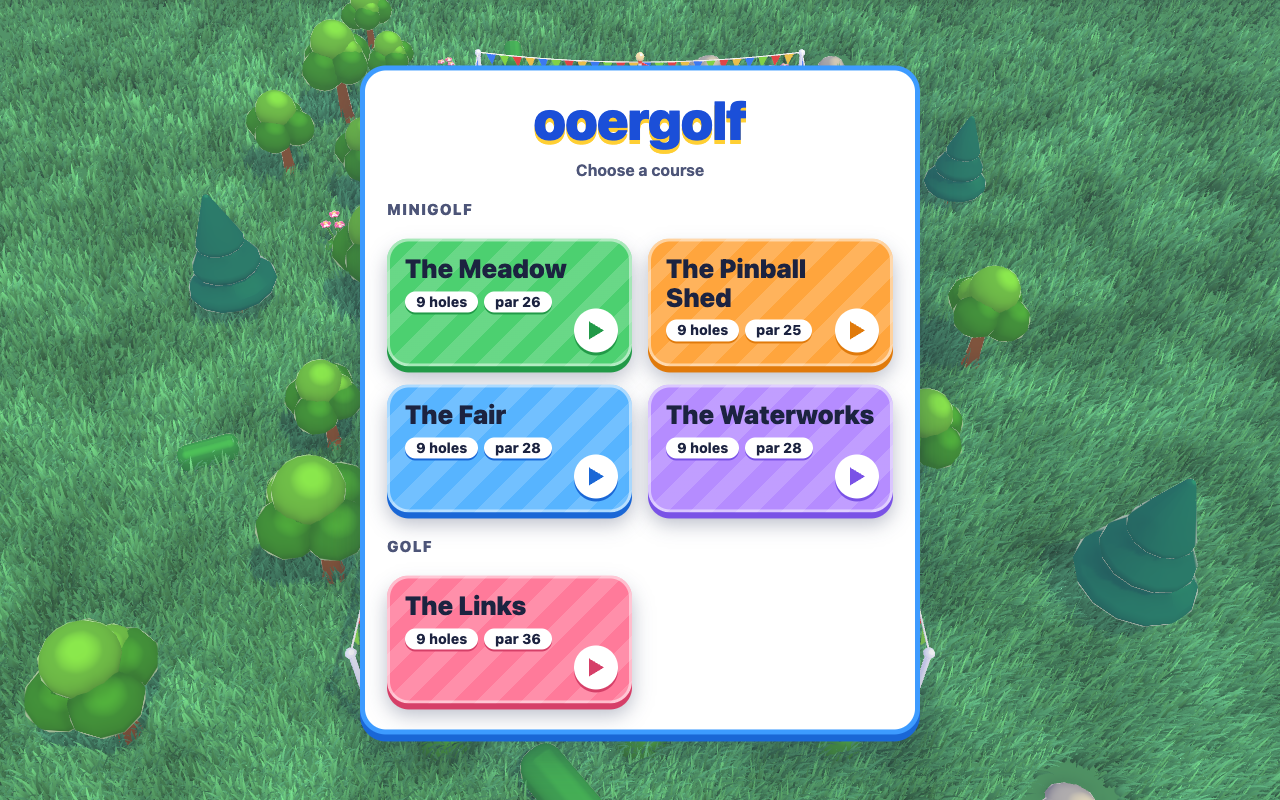
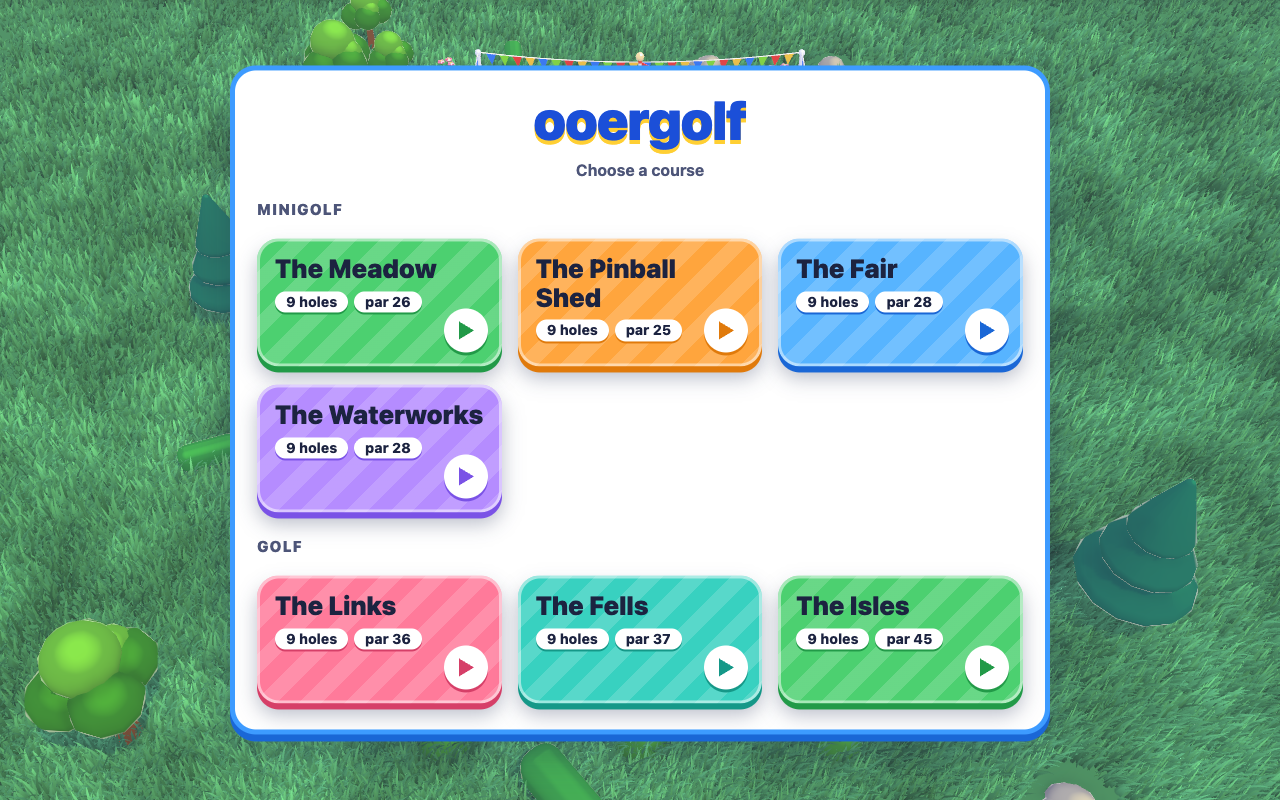
The Fells and The Isles are on the start screen, made when first chosen, after The Links
Both are registered in COURSES as golf, lazy as The Links is, with their summaries read without making them. Seven cards
no longer fit the start screen, so it is three cards wide on a desk and its phone cards are shorter; the three start
pictures are written again for that and have been looked at. The Fells' fifth hole is renamed The Plunge, since its
old name's wind bent the grass less than the turf test asks. The course test floods across water on golf, since an
island green is reached by air, and allows a par of six. Tests: both courses lazy, saved best scores by hole name,
names unique, a hole of each in SAMPLE_HOLES (The Plunge, The Green Isle), and smoke that chooses each from its card
and strikes a stroke. The checks beyond the quick one follow with the rest of the work.

diff --git a/test/courses.test.ts b/test/courses.test.ts
@@ -5,21 +5,26 @@ import { Autopilot } from '../src/autopilot';
 import { COURSE, COURSES, CUP } from '../src/course';
 import { checkInvariants } from '../src/invariants';
 import { PHYSICS, terrainRefusal } from '../src/physics';
+import { Progress, memoryStore } from '../src/progress';
 import { DT, newGame } from './helpers';
 import { HILLS } from './hills';
 
+const holeNames = (course: string) => COURSES.find((c) => c.name === course)!.holes.map((h) => h.name);
+
 describe('the courses', () => {
-  it('are The Meadow, the first nine as they were, the three newer courses and The Links, the one course of golf', () => {
+  it('are The Meadow, the first nine as they were, the three newer courses and The Links, The Fells and The Isles, the courses of golf, in order of difficulty', () => {
     expect(COURSES.map((c) => c.name)).toEqual([
       'The Meadow',
       'The Pinball Shed',
       'The Fair',
       'The Waterworks',
       'The Links',
+      'The Fells',
+      'The Isles',
     ]);
     expect(COURSES[0].holes).toBe(COURSE);
     expect(COURSE.length).toBe(9);
-    expect(COURSES.filter((c) => c.golf).map((c) => c.name)).toEqual(['The Links']);
+    expect(COURSES.filter((c) => c.golf).map((c) => c.name)).toEqual(['The Links', 'The Fells', 'The Isles']);
   });
 
   it('draw The Meadow’s windmill and mill race so that the cup shows from the tee, and open the race’s barrier wider', () => {
@@ -47,6 +52,20 @@ describe('the courses', () => {
   it('name every hole once across them all, since a best score is kept by the hole’s name', () => {
     const names = [...COURSES.flatMap((c) => c.holes.map((h) => h.name)), ...HILLS.map((h) => h.name)];
     expect(new Set(names).size).toBe(names.length);
+  });
+
+  it('keep a best score by the name of each hole of The Fells and The Isles, saved and read back', () => {
+    const names = ['The Fells', 'The Isles'].flatMap((n) =>
+      COURSES.find((c) => c.name === n)!.summary.holes ? holeNames(n) : [],
+    );
+    expect(names.length).toBe(18);
+    const best: Record<string, { strokes: number; club: string }> = {};
+    names.forEach((n, i) => (best[n] = { strokes: 2 + (i % 5), club: 'putter' }));
+    const store = memoryStore(JSON.stringify({ coins: 0, gems: 0, owned: ['putter'], club: 'putter', best }));
+    const progress = new Progress(store);
+    progress.persist();
+    const again = new Progress(store);
+    expect(again.save.best).toEqual(best);
   });
 
   it('slope only as the physics allows, and round each cup no steeper than the green holds a ball', () => {

diff --git a/smoke/progress.spec.ts b/smoke/progress.spec.ts
@@ -556,6 +556,40 @@ test('a hole of golf played with the bag: a club chosen by its button, struck in
   expect(problems).toEqual([]);
 });
 
+for (const [course, first] of [
+  ['The Fells', 'Fell Foot'],
+  ['The Isles', 'Landfall'],
+] as const) {
+  test(`${course} is chosen by its card on the start screen, begun on its first hole with the driver in hand, and a stroke is struck by a drag`, async ({
+    page,
+  }) => {
+    const problems = watch(page);
+    await start(page, { seed: 1, paused: true, screen: true });
+    await expect(page.locator('#start .course')).toHaveCount(7);
+    await page.locator('#start .course', { hasText: course }).click();
+    await expect(page.locator('#start')).toBeHidden();
+    await page.evaluate(() => window.game!.step(75));
+    await expect(page.locator('#bag')).toBeVisible();
+    await expect(page.locator('#bagClubs button')).toHaveCount(8);
+    expect(await page.evaluate(() => window.game!.state())).toMatchObject({
+      course,
+      golf: true,
+      inHand: 'driver',
+      strokes: 0,
+      ready: true,
+    });
+    expect(await page.evaluate(() => window.game!.content().holes[0].name)).toBe(first);
+    const at = await page.evaluate(() => {
+      const b = window.game!.ball();
+      return window.game!.project(b.x, b.y, b.z);
+    });
+    const short = await page.evaluate(() => Math.min(innerWidth, innerHeight));
+    await drag(page, at, { x: at.x, y: at.y + 0.35 * short });
+    expect((await page.evaluate(() => window.game!.state())).strokes, 'let go, the stroke is taken').toBe(1);
+    expect(problems).toEqual([]);
+  });
+}
+
 test('a full drive is followed the whole way: the ball is in the middle of the screen at every frame from the tee to rest', async ({
   page,
 }) => {
@@ -1853,7 +1887,7 @@ test.describe('the flag button', () => {
     await expect(page.locator('#viewFlag')).toBeHidden();
     expect(await page.evaluate(() => window.game!.faceFlag()), 'nothing under the screen').toBe(false);
     expect((await view(page)).turning).toBe(false);
-    for (const course of ['The Meadow', 'The Links']) {
+    for (const course of ['The Meadow', 'The Links', 'The Fells', 'The Isles']) {
       await page.evaluate((name) => {
         window.game!.chooseCourse(name);
         window.game!.step(60);

diff --git a/test/course.test.ts b/test/course.test.ts
@@ -103,11 +103,11 @@ describe('the course', () => {
   it('has holes, each with a par, a cup the ball fits, and grass the whole way from the tee to the cup, on every course', () => {
     expect(COURSE.length).toBeGreaterThanOrEqual(2);
     expect(CUP.radius).toBeGreaterThan(1);
-    for (const hole of COURSES.flatMap((c) => c.holes)) {
+    for (const { hole, golf } of COURSES.flatMap((c) => c.holes.map((h) => ({ hole: h, golf: !!c.golf })))) {
       const l = layoutOf(hole.map, hole.terrain);
       expect(hole.par, hole.name).toBeGreaterThanOrEqual(2);
-      // the longest holes of The Links are par five; no hole is more
-      expect(hole.par, hole.name).toBeLessThanOrEqual(5);
+      // the longest holes of The Isles are par six; no hole is more
+      expect(hole.par, hole.name).toBeLessThanOrEqual(6);
       // the cup sits on level grass, where its lining, collar and flag are drawn; the physics could cut it higher
       const cupTile = Math.floor((l.cup.y - l.originY) / TILE) * l.cols + Math.floor((l.cup.x - l.originX) / TILE);
       expect(l.floor[cupTile], `${hole.name}: the cup on level grass`).toBe(0);
@@ -118,7 +118,8 @@ describe('the course', () => {
       const queue = [tile(l.tee.x, l.tee.y)];
       while (queue.length) {
         const t = queue.pop()!;
-        if (seen.has(t) || l.solid[t] || l.water[t]) continue;
+        // a ball on a golf hole flies over water, so an island green is reached from the tee across it
+        if (seen.has(t) || l.solid[t] || (l.water[t] && !golf)) continue;
         seen.add(t);
         queue.push(t + 1, t - 1, t + l.cols, t - l.cols);
       }

diff --git a/test/fells-ground.test.ts b/test/fells-ground.test.ts
@@ -24,7 +24,7 @@ const RELIEF = { least: 15, most: 40 };
 const CLEARLY = 1.3;
 
 /**
- * Three holes of the table: Fell Foot, The Drop and The Fell Race, with their lengths, widths, feels, contours, greens,
+ * Three holes of the table: Fell Foot, The Plunge and The Fell Race, with their lengths, widths, feels, contours, greens,
  * bunkers and trees (no lakes: those are a later part's). Each is at `heighten` 2.5 and steepness 0.9, which the table's
  * 1.4 to 1.8 do not reach (0 to 15 per cent of the fairway runs at 1.4 and 1.8, and 6 to 29 at 2.5); the seeds are the ones
  * of eight whose share and relief are both inside the targets, 7, 6 and 4.
@@ -49,7 +49,7 @@ const SPECS: GolfSpec[] = [
     greens: 13.5,
   },
   {
-    name: 'The Drop',
+    name: 'The Plunge',
     par: 3,
     length: 210,
     bend: 0,
@@ -250,7 +250,7 @@ describe('a hole of steep ground, as The Fells have it', () => {
 
 describe('the steepest ground the physics takes', () => {
   it('is never handed back past it: a plate blended into tall hills is gentled until the physics takes it', () => {
-    // these seeds of The Fell Race and The Drop (on long hills) made a step of 1.50 to 1.65 where the green's plate meets the
+    // these seeds of The Fell Race and The Plunge (on long hills) made a step of 1.50 to 1.65 where the green's plate meets the
     // hills, past the half a tile the physics allows, before the generator held the finished ground to it
     const cases: GolfSpec[] = [
       { ...SPECS[2], seed: 2 },

diff --git a/test/lazy-course.test.ts b/test/lazy-course.test.ts
@@ -33,6 +33,36 @@ describe('a course made by a generator', () => {
     vi.resetModules();
   });
 
+  it('is made only when chosen for The Fells and The Isles too: summaries read, nothing made, until their holes are asked for', async () => {
+    vi.resetModules();
+    const made: string[] = [];
+    vi.doMock('../src/golf', async () => {
+      const real = await vi.importActual<typeof import('../src/golf')>('../src/golf');
+      return {
+        ...real,
+        golfHole: (spec: Parameters<typeof real.golfHole>[0]) => {
+          made.push(spec.name);
+          return real.golfHole(spec);
+        },
+      };
+    });
+    const course = await import('../src/course');
+    expect(made).toEqual([]);
+    for (const name of ['The Fells', 'The Isles']) {
+      const c = course.COURSES.find((x) => x.name === name)!;
+      expect(c.golf, `${name} is golf`).toBe(true);
+      expect(c.summary.holes).toBe(9);
+      expect(made, `${name}: its summary was read, nothing made`).toEqual([]);
+      const holes = c.holes;
+      expect(made.length).toBe(9);
+      expect(c.holes).toBe(holes);
+      expect(made.length, 'once').toBe(9);
+      made.length = 0;
+    }
+    vi.doUnmock('../src/golf');
+    vi.resetModules();
+  });
+
   it('says in its summary what its holes say, for every course there is', () => {
     for (const c of COURSES) {
       expect(c.summary.holes, `${c.name}: how many holes`).toBe(c.holes.length);

diff --git a/test/helpers.ts b/test/helpers.ts
@@ -3,6 +3,8 @@ import { COURSES, type HoleDef } from '../src/course';
 export { FLAT, FLAT_HOLES, levelHole, type LevelSpec } from './level';
 import { golfHole } from '../src/golf';
 import { LINKS_SPECS } from '../src/links';
+import { FELLS_SPECS } from '../src/fells';
+import { ISLES_SPECS } from '../src/isles';
 import { Game, type GameEvents } from '../src/game';
 import { Progress, memoryStore } from '../src/progress';
 import { seeded } from '../src/random';
@@ -11,11 +13,17 @@ export const DT = 1 / 60;
 
 /**
  * The holes the slow tests that try every tile of every hole are run on: every hole of the minigolf courses. Of The Links, whose holes are
- * twenty thousand tiles of map and eight thousand of ground each: three, the shortest, a par four and the longest, made
+ * twenty thousand tiles of map and eight thousand of ground each: three, the shortest, a par four and the longest, and one of each of the others (The Plunge, The Green Isle), made
  * singly so that importing this does not make all nine.
  */
 export const SAMPLE_HOLES: HoleDef[] = COURSES.flatMap((c) =>
-  c.name === 'The Links' ? [1, 3, 6].map((i) => golfHole(LINKS_SPECS[i])) : c.holes,
+  c.name === 'The Links'
+    ? [1, 3, 6].map((i) => golfHole(LINKS_SPECS[i]))
+    : c.name === 'The Fells'
+      ? [golfHole(FELLS_SPECS[4])]
+      : c.name === 'The Isles'
+        ? [golfHole(ISLES_SPECS[1])]
+        : c.holes,
 );
 
 /**

diff --git a/index.html b/index.html
@@ -735,7 +735,8 @@
   #start {
     --edge: var(--sky);
     --lip: var(--sky-deep);
-    width: min(560px, calc(100vw / var(--ui, 1) - 32px));
+    /* wide enough for three cards across, so The Links, The Fells and The Isles stand in one row and the screen holds seven cards without scrolling */
+    width: min(820px, calc(100vw / var(--ui, 1) - 32px));
     padding: 22px 22px 26px;
     text-align: center;
   }
@@ -873,9 +874,9 @@
   }
 
   @media (max-width: 600px) {
-    /* six cards fit a tall phone's screen at this height, and a short one scrolls */
+    /* seven cards fit a tall phone's screen at this height, and a short one scrolls */
     #courses {
-      gap: 12px 16px;
+      gap: 8px 16px;
     }
     #courses h2 {
       font-size: 13px;
@@ -885,8 +886,8 @@
       margin-top: 0;
     }
     #courses .course {
-      min-height: 88px;
-      padding: 10px 16px 12px;
+      min-height: 76px;
+      padding: 8px 16px 10px;
     }
     .course b {
       font-size: 23px;
@@ -1254,8 +1255,8 @@
       gap: 8px 12px;
     }
     #courses .course {
-      min-height: 68px;
-      padding: 8px 14px 10px;
+      min-height: 56px;
+      padding: 6px 14px 8px;
     }
     .course b {
       font-size: 20px;

diff --git a/smoke/hud.spec.ts b/smoke/hud.spec.ts
@@ -36,7 +36,7 @@ for (const [where, device] of [
   test.describe(where, () => {
     test.use(device);
 
-    test('the start screen holds its four minigolf and one golf course without scrolling, the colours going round the cards', async ({
+    test('the start screen holds its four minigolf and three golf courses without scrolling, the colours going round the cards', async ({
       page,
     }) => {
       const problems = watch(page);
@@ -49,8 +49,10 @@ for (const [where, device] of [
         return { fits: panel.scrollHeight <= panel.clientHeight, faces };
       });
       expect(r.fits, 'no scrolling in the start screen').toBe(true);
-      // five cards, five colours: a heading among them must not shift the cycle
-      expect(new Set(r.faces).size, 'each card its own colour').toBe(5);
+      // seven cards go round six colours, so the seventh wears the first's, which is a heading away; a heading must not shift the cycle
+      expect(r.faces.length, 'a card for each course').toBe(7);
+      expect(new Set(r.faces).size, 'six colours, each used').toBe(6);
+      expect(r.faces[6], 'the seventh card goes round to the first colour').toBe(r.faces[0]);
       expect(problems).toEqual([]);
     });
 

diff --git a/src/course.ts b/src/course.ts
@@ -32,6 +32,8 @@
 
 import type { ObstacleDef } from './obstacles';
 import { FAIR } from './fair';
+import { FELLS_SUMMARY, fells } from './fells';
+import { ISLES_SUMMARY, isles } from './isles';
 import { LINKS_SUMMARY, links } from './links';
 import { SHED } from './shed';
 import { WATERWORKS } from './waterworks';
@@ -291,6 +293,22 @@ export const COURSES: readonly Course[] = [
       return links();
     },
     summary: LINKS_SUMMARY,
+    golf: true,
+  },
+  {
+    name: 'The Fells',
+    get holes() {
+      return fells();
+    },
+    summary: FELLS_SUMMARY,
+    golf: true,
+  },
+  {
+    name: 'The Isles',
+    get holes() {
+      return isles();
+    },
+    summary: ISLES_SUMMARY,
     golf: true,
   },
 ];

diff --git a/test/fells.test.ts b/test/fells.test.ts
@@ -223,7 +223,7 @@ describe('The Fells', () => {
     }
     const mine = FELLS_SPECS.map((s) => s.name);
     expect(new Set(mine).size).toBe(9);
-    const others = COURSES.flatMap((c) => c.holes.map((h) => h.name));
+    const others = COURSES.filter((c) => c.name !== 'The Fells').flatMap((c) => c.holes.map((h) => h.name));
     for (const name of mine) expect(others, name).not.toContain(name);
     for (const name of ISLES) expect(mine, name).not.toContain(name);
     for (const s of LINKS_SPECS) expect(mine, s.name).not.toContain(s.name);

diff --git a/src/fells.ts b/src/fells.ts
@@ -119,7 +119,7 @@ export const FELLS_SPECS: readonly GolfSpec[] = [
     greens: 13,
   },
   {
-    name: 'The Drop',
+    name: 'The Plunge',
     par: 3,
     length: 210,
     bend: 0,

diff --git a/test/isles.test.ts b/test/isles.test.ts
@@ -28,7 +28,7 @@ const FELLS = [
   'The Pinewood',
   'Tarn',
   'Scree Corner',
-  'The Drop',
+  'The Plunge',
   'Beck Bend',
   'The Shortcut',
   'Waterfall',
